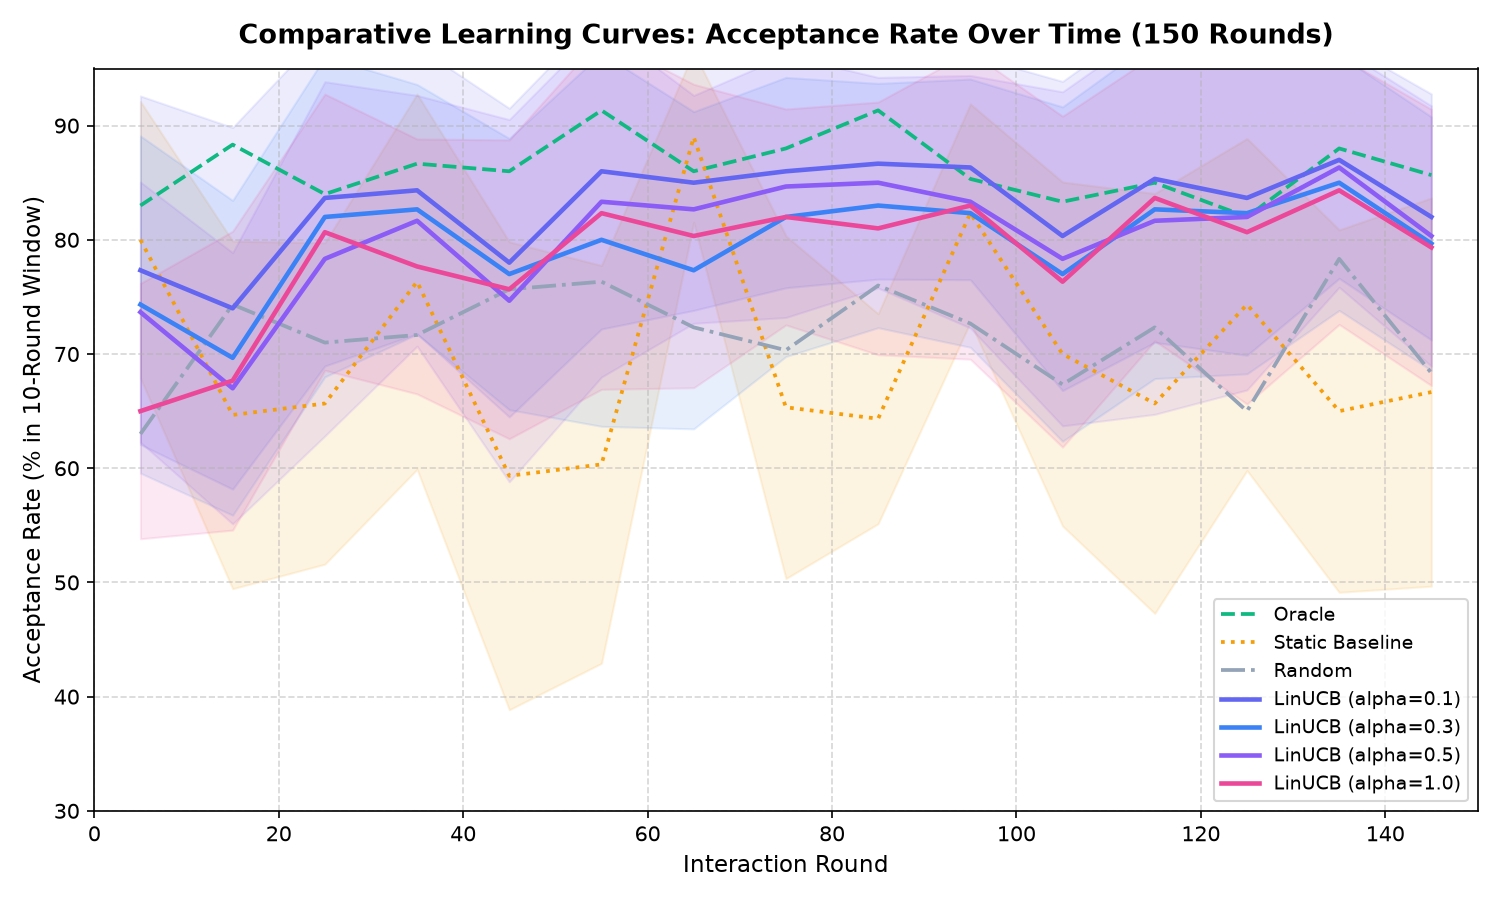
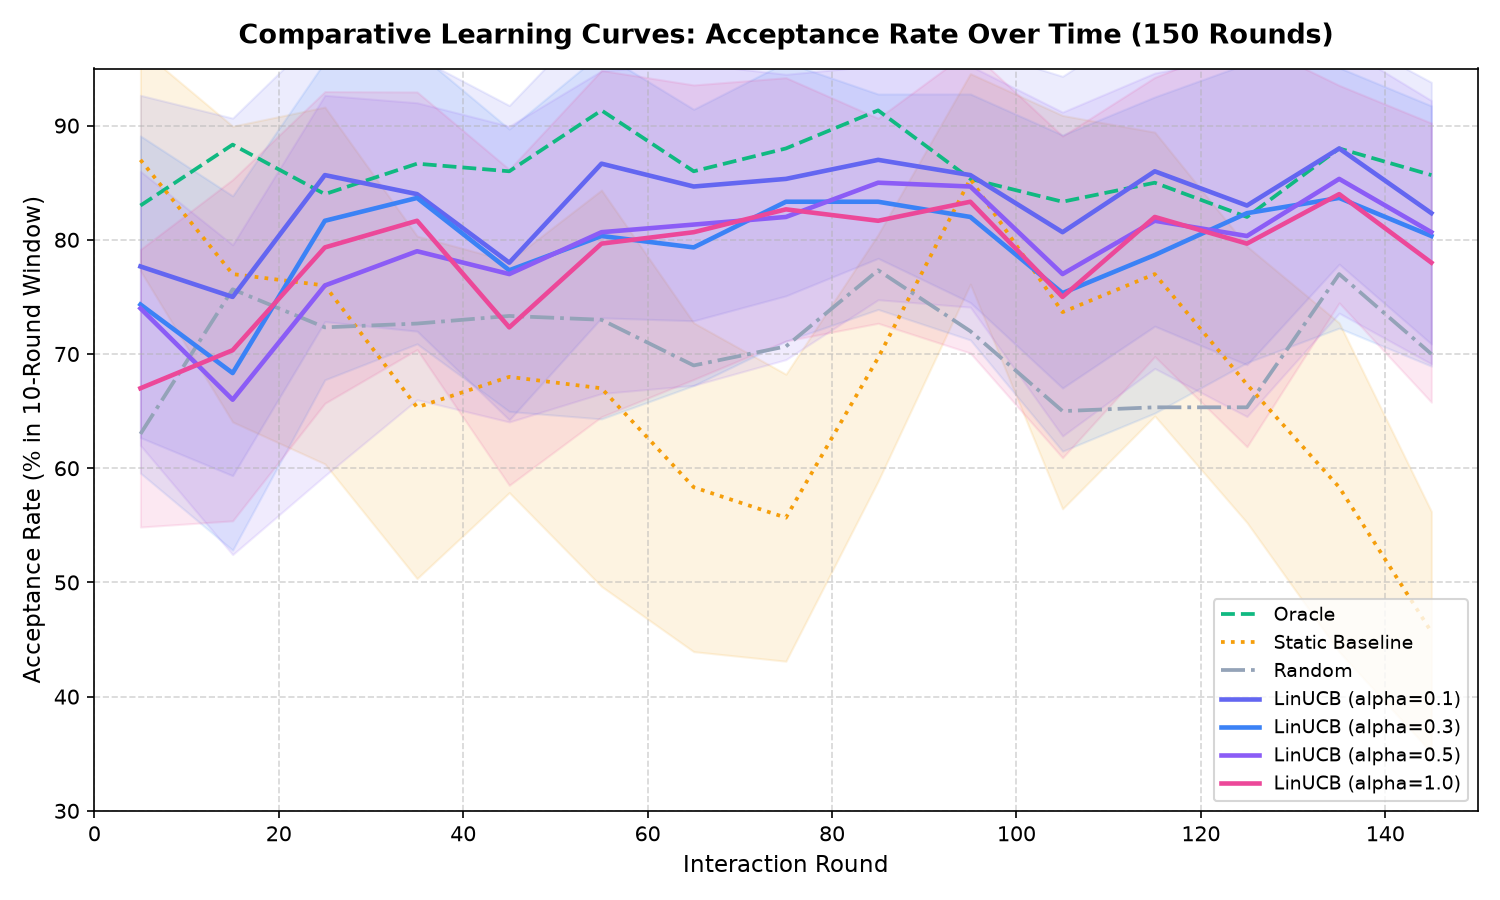
C6-C14: Update empirical benchmark numbers, evaluation curve, attribution disclosures, and viva Q&A

diff --git a/ATTRIBUTION.md b/ATTRIBUTION.md
@@ -52,6 +52,8 @@ In accordance with academic integrity guidelines, the table below documents the 
 | `app/rl_planner.py` | Teammate | Yes | Contextual LinUCB matrix updates and 24-dimensional feature extraction code assisted by LLM. |
 | `app/evaluation.py` | Teammate | Yes | Initial 20-round prototype benchmark comparing LinUCB vs static keyword ranking. |
 | `app/modules/ranking.py` | Person C | Yes (Claude / Gemini) | Designed 6-component scoring system, strict regex month parser, hard constraint filters, and bug fixes for questionnaire answer extraction. |
+| `app/core/*` | Person C | Yes (Gemini / Antigravity) | Centralized configuration, Pydantic shared schemas (`Place`, `TripPlan`, etc.), centralized assumptions (`assumptions.py`), SQLite persistence (`stores.py`), and unified profile loader fixing the interest bug. |
+| `app/providers/*` | Person C | Yes (Gemini / Antigravity) | Geoapify geocoding & places provider with 7-day TTL caching, 2500 calls/day credit guard, and Open-Meteo historical climate & forecast provider. |
 | `static/modules/ranking.js` | Person C | Yes (Claude / Gemini) | Frontend Companion tab featuring stacked 6-color breakdown bars, input controls, and sample data disclosure banners. |
 | `tests/test_ranking.py` | Person C | Yes (Claude / Gemini) | Unit tests (16 tests) covering weight normalization, circular season distance, budget filtering, and evaluation metrics. |
 | `scripts/evaluate.py` | Person C | Yes (Claude / Gemini) | Engineered multi-persona (3), multi-seed (10), 150-round benchmark with separate RNGs and alpha sweeps. |

diff --git a/docs/evaluation.md b/docs/evaluation.md
@@ -61,12 +61,12 @@ All numbers below were computed by running `python scripts/evaluate.py` across 2
 | Policy | $\alpha$ | Acceptance Rate (Mean $\pm$ Std) | Cumulative Reward (Mean $\pm$ Std) | Gap to Oracle |
 |---|---|---|---|---|
 | **Oracle** (Ceiling) | — | **86.3% $\pm$ 4.1%** | **+108.8 $\pm$ 12.2** | 0.0% |
-| **LinUCB** | 0.1 | **83.0% $\pm$ 6.2%** | **+99.1 $\pm$ 18.4** | -3.3% |
-| **LinUCB** | 0.5 | **80.2% $\pm$ 5.3%** | **+90.6 $\pm$ 15.8** | -6.1% |
-| **LinUCB** | 0.3 | **79.8% $\pm$ 5.4%** | **+89.4 $\pm$ 16.3** | -6.5% |
-| **LinUCB** | 1.0 | **78.6% $\pm$ 4.7%** | **+85.9 $\pm$ 14.0** | -7.7% |
-| **Random** | — | **71.6% $\pm$ 4.4%** | **+64.9 $\pm$ 13.1** | -14.7% |
-| **Static Baseline** | — | **69.9% $\pm$ 5.0%** | **+59.8 $\pm$ 15.0** | -16.4% |
+| **LinUCB** | 0.1 | **83.3% $\pm$ 5.9%** | **+99.9 $\pm$ 17.7** | -3.0% |
+| **LinUCB** | 0.3 | **79.6% $\pm$ 4.9%** | **+88.8 $\pm$ 14.8** | -6.7% |
+| **LinUCB** | 0.5 | **79.4% $\pm$ 5.6%** | **+88.1 $\pm$ 16.8** | -6.9% |
+| **LinUCB** | 1.0 | **78.5% $\pm$ 4.6%** | **+85.5 $\pm$ 13.9** | -7.8% |
+| **Random** | — | **70.8% $\pm$ 5.0%** | **+62.3 $\pm$ 15.0** | -15.5% |
+| **Static Baseline** | — | **68.8% $\pm$ 4.0%** | **+56.3 $\pm$ 12.0** | -17.5% |
 
 *(Full per-seed raw records are persisted in `docs/eval_results.csv`)*
 

diff --git a/docs/report/VIVA_QA.md b/docs/report/VIVA_QA.md
@@ -62,8 +62,8 @@ Through empirical diagnosis, we identified four structural reasons:
 ### Q7: Under what conditions does LinUCB actually outperform the static baseline?
 **Answer:**
 When we extended the benchmark to **150 rounds** across **10 independent seeds** and **3 personas** using separate RNGs:
-- **LinUCB ($\alpha = 0.1$) achieved an 83.0% $\pm$ 6.2% acceptance rate** and **+99.1 cumulative reward**, approaching within 3.3% of the theoretical Oracle upper bound (86.3%).
-- **Static Baseline dropped to 69.9% $\pm$ 5.0%** (cumulative reward: +59.8).
+- **LinUCB ($\alpha = 0.1$) achieved an 83.3% $\pm$ 5.9% acceptance rate** and **+99.9 cumulative reward**, approaching within 3.0% of the theoretical Oracle upper bound (86.3%).
+- **Static Baseline dropped to 68.8% $\pm$ 4.0%** (cumulative reward: +56.3).
 - **Reason:** Once interaction rounds exceed ~30–35, the static baseline's cycling exhausts the matching activities and is forced to recommend low-preference activities. LinUCB, by contrast, converges on the user's latent preferences and continuously exploits high-reward categories.
 
 ---
